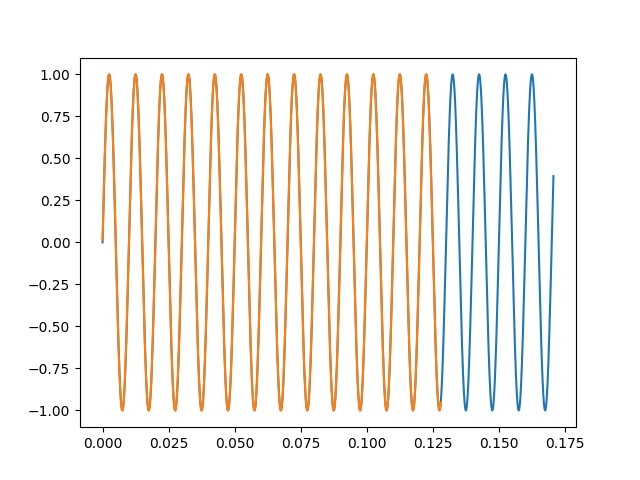
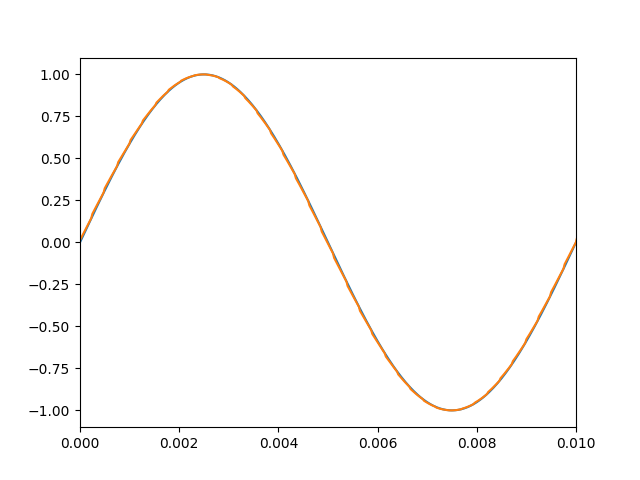
Code cleanup + experiment with input vs output filters

diff --git a/src/HPResampler.h b/src/HPResampler.h
@@ -11,89 +11,87 @@ public:
     {
         ratio = (float) src_ratio;
         Ts = 1.0f / ((float) sample_rate);
-        Ts_up = 1.0f / ((float) sample_rate * ratio);
-        Ts_down = 1.0f / ((float) sample_rate / ratio);
+        Ts_in = 1.0f / ((float) sample_rate * ratio);
+        Ts_out = 1.0f / ((float) sample_rate / ratio);
         y_old = 0.0f;
         
-        upFilter = std::make_unique<InputFilterBank> (Ts);
-        downFilter = std::make_unique<OutputFilterBank> (Ts);
+        inFilter = std::make_unique<InputFilterBank> (Ts);
+        inFilter->set_freq ((float) sample_rate * 0.5f);
+        inFilter->set_delta (Ts_in);
 
-        upFilter->set_freq ((float) sample_rate * 0.5f);
-        upFilter->set_delta (Ts_up);
+        outFilter = std::make_unique<OutputFilterBank> (Ts_in);
+        outFilter->set_freq ((float) sample_rate * 0.5f);
+        outFilter->set_delta (Ts_out);
+        H0 = 1.0f; // outFilter->calcH0();
 
-        downFilter->set_freq ((float) sample_rate * 0.5f);
-        downFilter->set_delta (Ts_up);
-
-        H0 = downFilter->calcH0();
+        middle.resize (int (block_size * ratio) + 1, 0.0f);
     }
 
+#if 0 // use input filter (Dirac)
     int process (const float* input, float* output, int num_samples) override
     {
-        if (ratio > 1.0f) // upsample
+        inFilter->set_time (tn);
+        int count = 0;
+        for (int i = 0; i < num_samples; ++i)
         {
-            upFilter->set_time (tn);
-            int count = 0;
-            for (int i = 0; i < num_samples; ++i)
+            while (tn < Ts)
             {
-                while (tn < Ts)
-                {
-                    upFilter->calcG();
-                    auto sum = FastMath::vSum(SSEComplexMulReal(upFilter->Gcalc, upFilter->x));
-                    output[count++] = -0.95097f * sum;
+                inFilter->calcG();
+                auto sum = FastMath::vSum(SSEComplexMulReal(inFilter->Gcalc, inFilter->x));
+                output[count++] = -0.95097f * sum;
 
-                    tn += Ts_up;
-                }
-                tn -= Ts;
-
-                upFilter->process(input[i]);
+                tn += Ts_in;
             }
+            tn -= Ts;
 
-            return count;
+            inFilter->process(input[i]);
         }
 
-        if (ratio < 1.0f) // downsample
-        {
-            downFilter->set_time (tn);
-            int count = 0;
-            for (int i = 0; i < num_samples; )
-            {
-                SSEComplex xOutAccum;
-                while (tn < Ts)
-                {
-                    auto y = input[i++];
-                    auto delta = y - y_old;
-                    y_old = y;
-                    downFilter->calcG();
-                    xOutAccum += downFilter->Gcalc * delta;
-
-                    tn += Ts_down;
-                }
-                tn -= Ts;
-
-                downFilter->process(xOutAccum);
-                float sum = FastMath::vSum(xOutAccum._r);
-                output[count++] = y_old + sum;
-            }
-
-            return count;
-        }
-
-        // edge case
-        std::copy (input, &input[num_samples], output);
-        return num_samples;
+        return count;
     }
+#else // use output filter (rectangular)
+    int process (const float* input, float* output, int num_samples) override
+    {
+        outFilter->set_time (tn);
+        int count = 0;
+        for (int i = 0; i < num_samples; )
+        {
+            SSEComplex xOutAccum;
+            int counter = 0;
+            while (tn < Ts)
+            {
+                auto y = input[i++];
+                auto delta = (y - y_old);
+                y_old = y;
+
+                outFilter->calcG();
+                xOutAccum += outFilter->Gcalc * delta;
+                tn += Ts_out;
+            }
+            tn -= Ts;
+
+            outFilter->process(xOutAccum);
+            float sum = FastMath::vSum(xOutAccum._r);
+            output[count++] = y_old + sum;
+        }
+
+        return count;
+    }
+#endif
 
 private:
-    std::unique_ptr<InputFilterBank> upFilter;
-    std::unique_ptr<OutputFilterBank> downFilter;
+    std::unique_ptr<InputFilterBank> inFilter;
+    std::unique_ptr<OutputFilterBank> outFilter;
 
     float Ts = 1.0f;
-    float Ts_up = 1.0f;
-    float Ts_down = 1.0f;
+    float Ts_in = 1.0f;
+    float Ts_out = 1.0f;
     float tn = 0.0;
 
     float y_old = 0.0f;
-
     float ratio = 1.0f;
+
     float H0 = 1.0f;
+
+    std::vector<float> middle;
 };

diff --git a/src/main.cpp b/src/main.cpp
@@ -6,10 +6,8 @@
 #include "HPResampler.h"
 #include "utils.h"
 
-#define MAKE_PLOTS 0
-
 #if MAKE_PLOTS
-#include "../third_party/matplotlibcpp.h"
+#include <matplotlibcpp.h>
 namespace plt = matplotlibcpp;
 #endif
 
@@ -56,9 +54,11 @@ void test_libsamplerate (const std::vector<float>& data, double ratio, float fs)
     // std::cout << "  Error: " << err << std::endl;
 
 #if MAKE_PLOTS
-    // plt::plot(gen_time (fs, (int) data.size()), data);
-    // plt::plot(gen_time (fs * (float) ratio, (int) output.size()), output);
-    // plt::save("./libsamplerate.png");
+    plt::figure();
+    plt::plot(gen_time (fs, (int) data.size()), data);
+    plt::plot(gen_time (fs * (float) ratio, (int) output.size()), output);
+    plt::xlim(0.0, 0.01);
+    plt::save("./doc/libsamplerate.png");
 #endif
 }
 
@@ -79,10 +79,11 @@ void test_hpresampler (const std::vector<float>& data, double ratio, float fs)
     // std::cout << "  Error: " << err << std::endl;
 
 #if MAKE_PLOTS
-    // namespace plt = matplotlibcpp;
-    // plt::plot(gen_time (fs, (int) data.size()), data);
-    // plt::plot(gen_time (fs * (float) ratio, (int) output.size()), output);
-    // plt::save("./hpresampler.png");
+    plt::figure();
+    plt::plot(gen_time (fs, (int) data.size()), data);
+    plt::plot(gen_time (fs * (float) ratio, (int) output.size()), output);
+    plt::xlim(0.0, 0.01);
+    plt::save("./doc/hpresampler.png");
 #endif
 }
 

diff --git a/src/hp_utils/HPFilters.h b/src/hp_utils/HPFilters.h
@@ -1,7 +1,6 @@
 #pragma once
 
 #include "SSEComplex.h"
-// #include "portable_intrinsics.h"
 
 /**
  * Bucket-Bridage Device filters, as derived by
